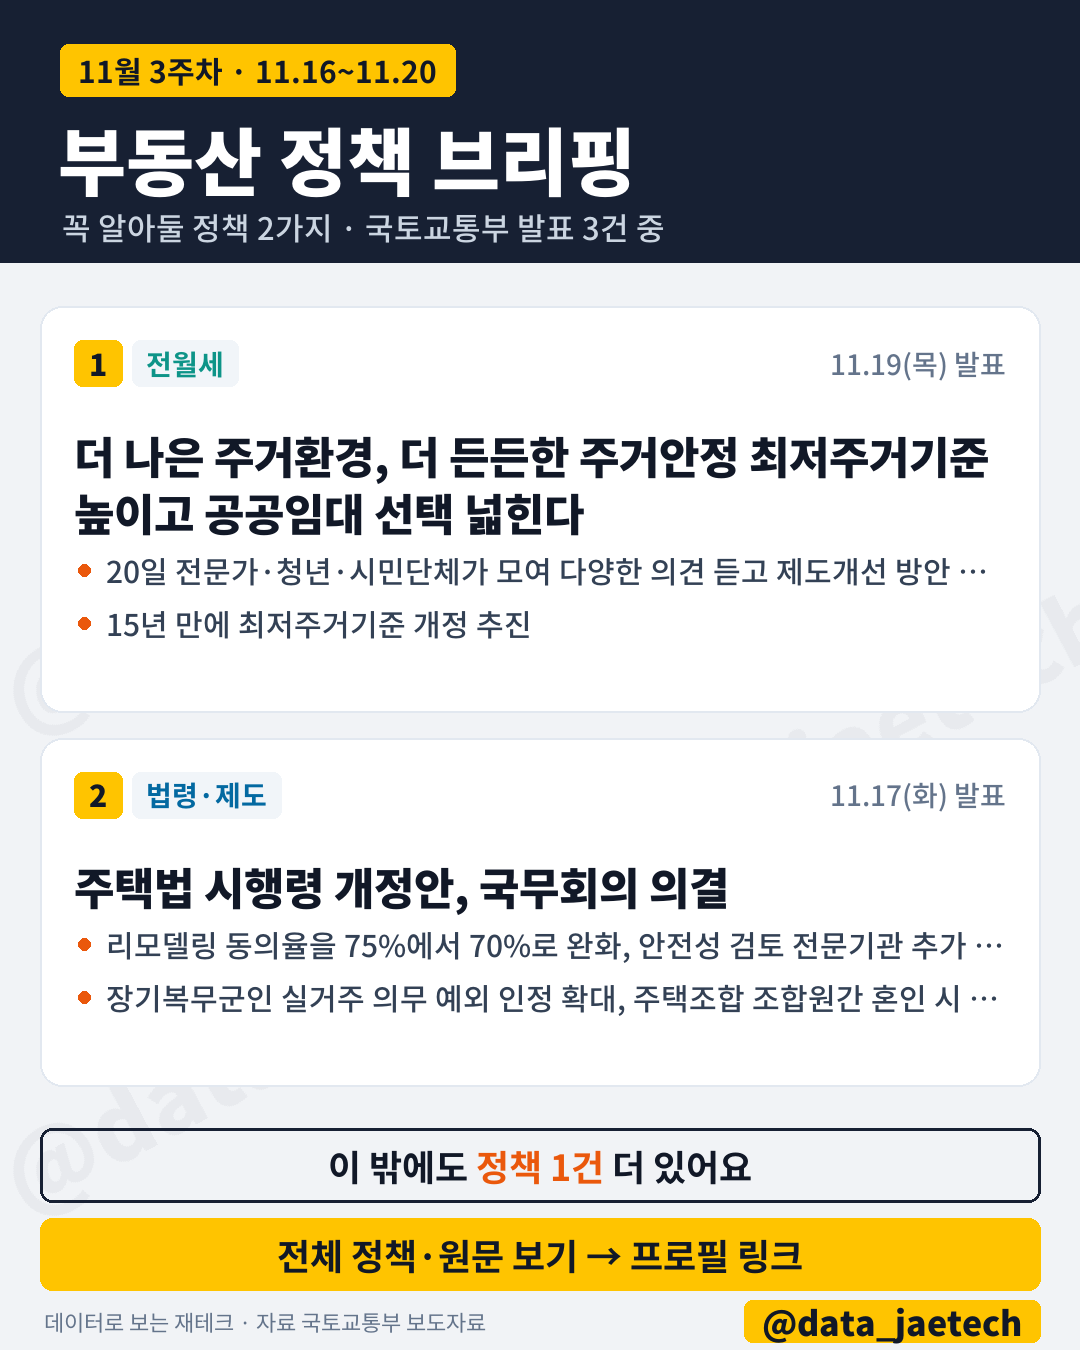
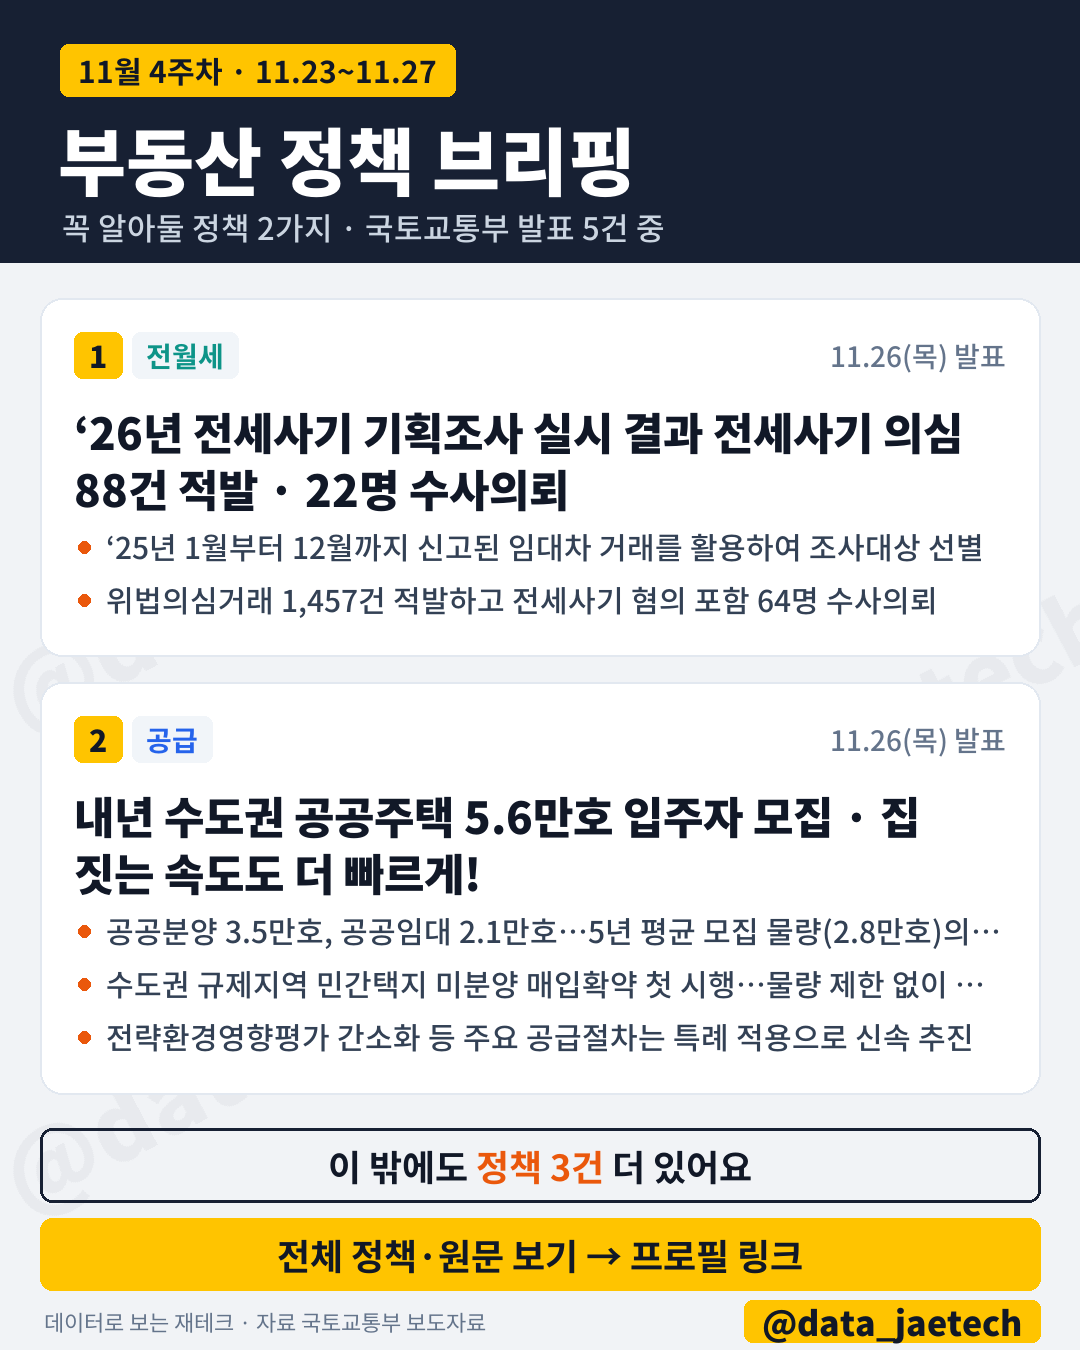
부동산 정책 2026-11-27

diff --git a/policy/index.html b/policy/index.html
@@ -7,7 +7,7 @@
 <meta property="og:title" content="부동산 정책 모아보기">
 <meta property="og:description" content="국토교통부 부동산·주택공급 정책을 주차별로 정리 (매일 갱신)">
 <meta property="og:url" content="https://gogokimbiz-spec.github.io/sudogwon-rt/policy/">
-<script type="application/ld+json">{"@context": "https://schema.org", "@type": "CollectionPage", "name": "부동산 정책 모아보기 – 국토교통부 보도자료", "url": "https://gogokimbiz-spec.github.io/sudogwon-rt/policy/", "dateModified": "2026-11-20T18:35:00+09:00"}</script>
+<script type="application/ld+json">{"@context": "https://schema.org", "@type": "CollectionPage", "name": "부동산 정책 모아보기 – 국토교통부 보도자료", "url": "https://gogokimbiz-spec.github.io/sudogwon-rt/policy/", "dateModified": "2026-11-27T18:44:00+09:00"}</script>
 <style>
 :root{--bg:#f6f7f9;--card:#fff;--fg:#111827;--sub:#6b7280;--line:#e5e7eb;--acc:#2563eb}
 *{box-sizing:border-box}body{margin:0;background:var(--bg);color:var(--fg);font:15px/1.6 -apple-system,BlinkMacSystemFont,"Apple SD Gothic Neo","Malgun Gothic","Noto Sans KR",sans-serif}
@@ -29,10 +29,17 @@ main{max-width:760px;margin:0 auto;padding:12px 12px 40px}
 footer{color:var(--sub);font-size:12px;text-align:center;padding:20px 12px}footer a{color:var(--sub)}
 </style></head><body>
 <header><a href="https://gogokimbiz-spec.github.io/sudogwon-rt/">← 수도권 실거래 지도</a><h1>부동산 정책 모아보기</h1>
-<div class="upd">국토교통부 보도자료 · 126건 · 2026-11-20 18:35 갱신</div></header>
+<div class="upd">국토교통부 보도자료 · 132건 · 2026-11-27 18:44 갱신</div></header>
 <main>
 <nav class="chips"><button class="chip on" data-t="">전체</button><button class="chip" data-t="공급">공급</button><button class="chip" data-t="청약·분양">청약·분양</button><button class="chip" data-t="전월세">전월세</button><button class="chip" data-t="정비사업">정비사업</button><button class="chip" data-t="규제·금융">규제·금융</button><button class="chip" data-t="통계·동향">통계·동향</button><button class="chip" data-t="법령·제도">법령·제도</button><button class="chip" data-t="동정">동정</button><button class="chip" data-t="기타">기타</button></nav>
-<section class="sum"><div class="sum-h">11월 3주차 부동산 정책 <b>3건</b></div><div class="sum-tags"><span class="tag" style="--c:#0d9488">전월세 1</span><span class="tag" style="--c:#4b5563">통계·동향 1</span><span class="tag" style="--c:#0369a1">법령·제도 1</span><span class="tag" style="--c:#c2410c">정비사업 1</span></div><ol><li><a href="#p95092619">더 나은 주거환경, 더 든든한 주거안정 “최저주거기준 높이고 공공임대 선택 넓힌다”</a></li><li><a href="#p95092607">「2025년도 주거실태조사」 결과</a></li><li><a href="#p95092610">「주택법 시행령」 개정안, 국무회의 의결</a></li></ol></section>
+<section class="sum"><div class="sum-h">11월 4주차 부동산 정책 <b>5건</b></div><div class="sum-tags"><span class="tag" style="--c:#2563eb">공급 3</span><span class="tag" style="--c:#0d9488">전월세 2</span><span class="tag" style="--c:#dc2626">규제·금융 2</span><span class="tag" style="--c:#7c3aed">청약·분양 1</span><span class="tag" style="--c:#4b5563">통계·동향 1</span></div><ol><li><a href="#p95092651">‘26년 전세사기 기획조사 실시 결과 전세사기 의심 88건 적발… 22명 수사의뢰</a></li><li><a href="#p95092650">내년 수도권 공공주택 5.6만호 입주자 모집…집 짓는 속도도 더 빠르게!</a></li><li><a href="#p95092645">주택시장 안정과 주거복지 향상, 금융·인공지능(AI) 활용 방안 찾는다</a></li><li><a href="#p95092639">신도시 교통대책 38개 사업 집중관리 … 교통시설 조기 확충에 총력</a></li><li><a href="#p95092637">공공주택 공급 실행력 높인다 「공공주택 특별법」 하위법령 개정안 입법예고</a></li></ol></section>
+<h2 class="wk">11월 4주차 <small>11.23 ~ 11.29</small></h2>
+<article id="p95092651" class="item" data-tags="전월세 규제·금융"><div class="meta"><span class="tag" style="--c:#0d9488">전월세</span><span class="tag" style="--c:#dc2626">규제·금융</span></div><div class="date">11.26(목)</div><h3>‘26년 전세사기 기획조사 실시 결과 전세사기 의심 88건 적발… 22명 수사의뢰</h3><ul><li>‘25년 1월부터 12월까지 신고된 임대차 거래를 활용하여 조사대상 선별</li><li>위법의심거래 1,457건 적발하고 전세사기 혐의 포함 64명 수사의뢰</li></ul><div class="foot"><span class="dept">부동산소비자보호기획단</span><span class="links"><a href="https://www.molit.go.kr/USR/NEWS/m_71/dtl.jsp?id=95092651" target="_blank" rel="noopener">원문 보기</a> · <a href="https://www.molit.go.kr/LCMS/DWN.jsp?fold=koreaNews/mobile/file&amp;fileName=261127%28%EC%A1%B0%EA%B0%84%29+%E2%80%9826%EB%85%84+%EC%A0%84%EC%84%B8%EC%82%AC%EA%B8%B0+%EA%B8%B0%ED%9A%8D%EC%A1%B0%EC%82%AC+%EC%8B%A4%EC%8B%9C+%EA%B2%B0%EA%B3%BC%28%EB%B6%80%EB%8F%99%EC%82%B0%EC%86%8C%EB%B9%84%EC%9E%90%EB%B3%B4%ED%98%B8%EA%B8%B0%ED%9A%8D%EB%8B%A8%29.pdf" target="_blank" rel="noopener">PDF</a></span></div></article>
+<article id="p95092654" class="item" data-tags="동정 공급"><div class="meta"><span class="tag" style="--c:#94a3b8">동정</span><span class="tag" style="--c:#2563eb">공급</span></div><div class="date">11.26(목) · 국토도시</div><h3>[장관동정] 홍지선 장관, 용인 반도체 국가산단 및 공공주택지구 현장점검</h3><ul><li>첫 팹 일정에 맞춰 부지조성·전력·용수 등 기반시설 적기 추진</li><li>삼성전자 설계·착공 일정 및 숙련인력 확보 지원… 보상·현장 안전도 꼼꼼히 챙겨</li></ul><div class="foot"><span class="dept">산업입지정책과</span><span class="links"><a href="https://www.molit.go.kr/USR/NEWS/m_71/dtl.jsp?id=95092654" target="_blank" rel="noopener">원문 보기</a> · <a href="https://www.molit.go.kr/LCMS/DWN.jsp?fold=koreaNews/mobile/file&amp;fileName=261126%28%EB%8F%99%EC%A0%95%29%ED%99%8D%EC%A7%80%EC%84%A0_%EC%9E%A5%EA%B4%80_%EC%9A%A9%EC%9D%B8_%EB%B0%98%EB%8F%84%EC%B2%B4_%EA%B5%AD%EA%B0%80%EC%82%B0%EB%8B%A8%C2%B7%EA%B3%B5%EA%B3%B5%EC%A3%BC%ED%83%9D%EC%A7%80%EA%B5%AC_%ED%98%84%EC%9E%A5%EC%A0%90%EA%B2%80%28%EC%82%B0%EC%97%85%EC%9E%85%EC%A7%80%EC%A0%95%EC%B1%85%EA%B3%BC%29.pdf" target="_blank" rel="noopener">PDF</a></span></div></article>
+<article id="p95092650" class="item" data-tags="공급 청약·분양"><div class="meta"><span class="tag" style="--c:#2563eb">공급</span><span class="tag" style="--c:#7c3aed">청약·분양</span></div><div class="date">11.26(목)</div><h3>내년 수도권 공공주택 5.6만호 입주자 모집…집 짓는 속도도 더 빠르게!</h3><ul><li>공공분양 3.5만호, 공공임대 2.1만호…5년 평균 모집 물량(2.8만호)의 2배</li><li>수도권 규제지역 민간택지 미분양 매입확약 첫 시행…물량 제한 없이 지원</li><li>전략환경영향평가 간소화 등 주요 공급절차는 특례 적용으로 신속 추진</li></ul><div class="foot"><span class="dept">주택공급정책과</span><span class="links"><a href="https://www.molit.go.kr/USR/NEWS/m_71/dtl.jsp?id=95092650" target="_blank" rel="noopener">원문 보기</a> · <a href="https://www.molit.go.kr/LCMS/DWN.jsp?fold=koreaNews/mobile/file&amp;fileName=261126%28%EB%B3%B4%EB%8F%84%EC%9E%90%EB%A3%8C%29_%EB%82%B4%EB%85%84_%EC%88%98%EB%8F%84%EA%B6%8C_%EA%B3%B5%EA%B3%B5%EC%A3%BC%ED%83%9D_5.6%EB%A7%8C%ED%98%B8_%EC%9E%85%EC%A3%BC%EC%9E%90_%EB%AA%A8%EC%A7%91_%EC%A7%91_%EC%A7%93%EB%8A%94_%EC%86%8D%EB%8F%84%EB%8F%84_%EB%8D%94_%EB%B9%A0%EB%A5%B4%EA%B2%8C%28%EC%A3%BC%ED%83%9D%EA%B3%B5%EA%B8%89%EC%A0%95%EC%B1%85%EA%B3%BC%29.pdf" target="_blank" rel="noopener">PDF</a></span></div></article>
+<article id="p95092645" class="item" data-tags="전월세 통계·동향"><div class="meta"><span class="tag" style="--c:#0d9488">전월세</span><span class="tag" style="--c:#4b5563">통계·동향</span></div><div class="date">11.26(목)</div><h3>주택시장 안정과 주거복지 향상, 금융·인공지능(AI) 활용 방안 찾는다</h3><ul><li>11월 26일 「제11회 국제주택도시금융포럼」 개최</li><li>국내외 전문가들과 주택시장 안정, 주거복지 증진을 위한 금융혁신 방안 모색</li></ul><div class="foot"><span class="dept">주택기금과</span><span class="links"><a href="https://www.molit.go.kr/USR/NEWS/m_71/dtl.jsp?id=95092645" target="_blank" rel="noopener">원문 보기</a> · <a href="https://www.molit.go.kr/LCMS/DWN.jsp?fold=koreaNews/mobile/file&amp;fileName=261126%28%EC%84%9D%EA%B0%84%29_%EC%A3%BC%ED%83%9D%EC%8B%9C%EC%9E%A5_%EC%95%88%EC%A0%95%EA%B3%BC_%EC%A3%BC%EA%B1%B0%EB%B3%B5%EC%A7%80_%ED%96%A5%EC%83%81__%EA%B8%88%EC%9C%B5_%EC%9D%B8%EA%B3%B5%EC%A7%80%EB%8A%A5%28AI%29_%ED%99%9C%EC%9A%A9_%EB%B0%A9%EC%95%88_%EC%B0%BE%EB%8A%94%EB%8B%A4%28%EC%A3%BC%ED%83%9D%EA%B8%B0%EA%B8%88%EA%B3%BC%29.pdf" target="_blank" rel="noopener">PDF</a></span></div></article>
+<article id="p95092639" class="item" data-tags="공급"><div class="meta"><span class="tag" style="--c:#2563eb">공급</span></div><div class="date">11.24(화) · 교통물류</div><h3>신도시 교통대책 38개 사업 집중관리 … 교통시설 조기 확충에 총력</h3><ul><li>대광위, 11월 25일 「신도시 교통대책 신속추진 TF」 전체회의 개최</li><li>사업별 갈등 조정·인허가 지원 성과 점검, 지연사업 집중 관리</li></ul><div class="foot"><span class="dept">광역교통정책과</span><span class="links"><a href="https://www.molit.go.kr/USR/NEWS/m_71/dtl.jsp?id=95092639" target="_blank" rel="noopener">원문 보기</a> · <a href="https://www.molit.go.kr/LCMS/DWN.jsp?fold=koreaNews/mobile/file&amp;fileName=261125%28%EC%A1%B0%EA%B0%84%29_%EC%8B%A0%EB%8F%84%EC%8B%9C_%EA%B5%90%ED%86%B5%EB%8C%80%EC%B1%85_38%EA%B0%9C_%EC%82%AC%EC%97%85_%EC%A7%91%EC%A4%91%EA%B4%80%EB%A6%AC_%EA%B5%90%ED%86%B5%EC%8B%9C%EC%84%A4_%EC%A1%B0%EA%B8%B0_%ED%99%95%EC%B6%A9%EC%97%90_%EC%B4%9D%EB%A0%A5%28%EA%B4%91%EC%97%AD%EA%B5%90%ED%86%B5%EC%A0%95%EC%B1%85%EA%B3%BC%29.pdf" target="_blank" rel="noopener">PDF</a></span></div></article>
+<article id="p95092637" class="item" data-tags="공급 규제·금융"><div class="meta"><span class="tag" style="--c:#2563eb">공급</span><span class="tag" style="--c:#dc2626">규제·금융</span></div><div class="date">11.24(화)</div><h3>공공주택 공급 실행력 높인다 「공공주택 특별법」 하위법령 개정안 입법예고</h3><ul><li>9·7 대책, 8·13 대책 후속조치로 신속한 주택공급 추진 기반 조성</li><li>보상 협조 주민에게 지장물 등 보상액에 최대 30%를 협조장려금으로 추가 지급</li></ul><div class="foot"><span class="dept">주택공급정책과</span><span class="links"><a href="https://www.molit.go.kr/USR/NEWS/m_71/dtl.jsp?id=95092637" target="_blank" rel="noopener">원문 보기</a> · <a href="https://www.molit.go.kr/LCMS/DWN.jsp?fold=koreaNews/mobile/file&amp;fileName=261125%28%EC%A1%B0%EA%B0%84%29_%EA%B3%B5%EA%B3%B5%EC%A3%BC%ED%83%9D_%EA%B3%B5%EA%B8%89_%EC%8B%A4%ED%96%89%EB%A0%A5_%EB%86%92%EC%9D%B8%EB%8B%A4_%EA%B3%B5%EA%B3%B5%EC%A3%BC%ED%83%9D_%ED%8A%B9%EB%B3%84%EB%B2%95_%ED%95%98%EC%9C%84%EB%B2%95%EB%A0%B9_%EA%B0%9C%EC%A0%95%EC%95%88_%EC%9E%85%EB%B2%95%EC%98%88%EA%B3%A0%28%EC%A3%BC%ED%83%9D%EA%B3%B5%EA%B8%89%EC%A0%95%EC%B1%85%EA%B3%BC_%EB%93%B1%29.pdf" target="_blank" rel="noopener">PDF</a></span></div></article>
 <h2 class="wk">11월 3주차 <small>11.16 ~ 11.22</small></h2>
 <article id="p95092619" class="item" data-tags="전월세"><div class="meta"><span class="tag" style="--c:#0d9488">전월세</span></div><div class="date">11.19(목)</div><h3>더 나은 주거환경, 더 든든한 주거안정 “최저주거기준 높이고 공공임대 선택 넓힌다”</h3><ul><li>20일 전문가·청년·시민단체가 모여 다양한 의견 듣고 제도개선 방안 논의</li><li>15년 만에 최저주거기준 개정 추진</li></ul><div class="foot"><span class="dept">주거복지정책과</span><span class="links"><a href="https://www.molit.go.kr/USR/NEWS/m_71/dtl.jsp?id=95092619" target="_blank" rel="noopener">원문 보기</a> · <a href="https://www.molit.go.kr/LCMS/DWN.jsp?fold=koreaNews/mobile/file&amp;fileName=261120%28%EC%A1%B0%EA%B0%84%29_%EC%B5%9C%EC%A0%80%EC%A3%BC%EA%B1%B0%EA%B8%B0%EC%A4%80_%EB%86%92%EC%9D%B4%EA%B3%A0_%EA%B3%B5%EA%B3%B5%EC%9E%84%EB%8C%80_%EC%84%A0%ED%83%9D_%EB%84%93%ED%9E%8C%EB%8B%A4%28%EC%A3%BC%EA%B1%B0%EB%B3%B5%EC%A7%80%EC%A0%95%EC%B1%85%EA%B3%BC%29.pdf" target="_blank" rel="noopener">PDF</a></span></div></article>
 <article id="p95092607" class="item" data-tags="통계·동향"><div class="meta"><span class="tag" style="--c:#4b5563">통계·동향</span></div><div class="date">11.17(화)</div><h3>「2025년도 주거실태조사」 결과</h3><div class="foot"><span class="dept">주택정책과</span><span class="links"><a href="https://www.molit.go.kr/USR/NEWS/m_71/dtl.jsp?id=95092607" target="_blank" rel="noopener">원문 보기</a> · <a href="https://www.molit.go.kr/LCMS/DWN.jsp?fold=koreaNews/mobile/file&amp;fileName=261118%28%EC%A1%B0%EA%B0%84%29+%E3%80%8C2025%EB%85%84%EB%8F%84+%EC%A3%BC%EA%B1%B0%EC%8B%A4%ED%83%9C%EC%A1%B0%EC%82%AC%E3%80%8D+%EA%B2%B0%EA%B3%BC%28%EC%A3%BC%ED%83%9D%EC%A0%95%EC%B1%85%EA%B3%BC%29.pdf" target="_blank" rel="noopener">PDF</a></span></div></article>
